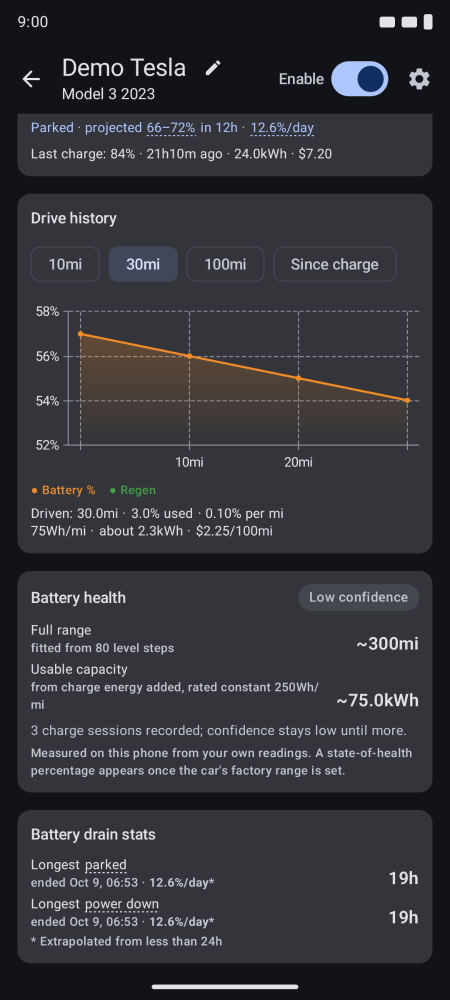
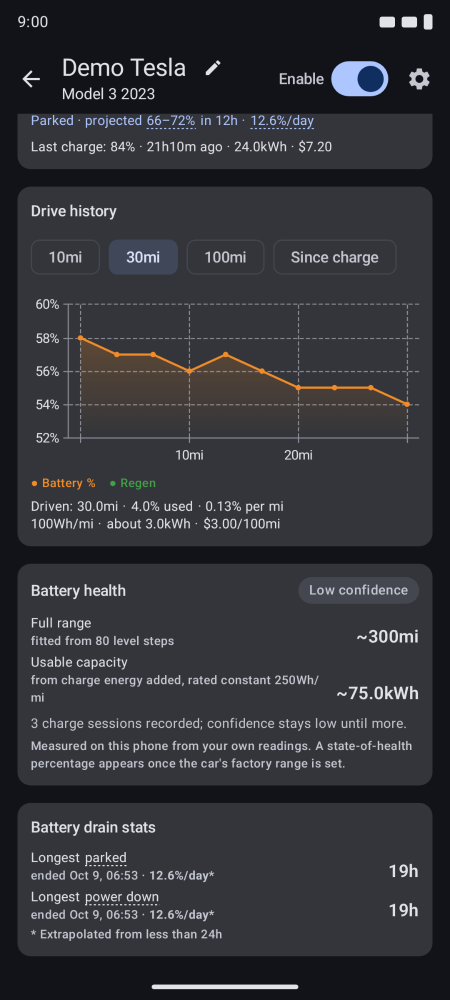
test: give the demo drives a wavy level and scroll the drive screenshot further
Claude-Session: https://claude.ai/code/session_01PLLPdEGMtwQUrgVjwf5FFz

diff --git a/app/src/test/java/com/dzid26/teslable/ui/DemoScreenFixtures.kt b/app/src/test/java/com/dzid26/teslable/ui/DemoScreenFixtures.kt
@@ -46,7 +46,7 @@ internal object DemoScreenFixtures {
     private const val RATED_MILES_PER_PERCENT = 3.0f
     private const val KWH_PER_PERCENT = 0.75f
     private const val ODOMETER = 1_234_567
-    private const val DRIVE_STEP = 1_000
+    private const val DRIVE_STEP = 333
     private const val DEMO_RSSI_LIST = -48
     private const val DEMO_RSSI_CAR = -47
     private const val OTHER_RSSI = -78
@@ -184,7 +184,9 @@ internal object DemoScreenFixtures {
         var ago = fromAgo
         while (ago >= toAgo) {
             val fraction = (fromAgo - ago).toDouble() / span
-            val percent = (fromPercent + (toPercent - fromPercent) * fraction).roundToInt()
+            // A drive wobbles: every fourth reading gains a level back, as regen on a downhill does.
+            val regen = if (driving && points.size % REGEN_EVERY == REGEN_EVERY - 1 && ago > toAgo) 1 else 0
+            val percent = (fromPercent + (toPercent - fromPercent) * fraction).roundToInt() + regen
             points += Point(ago, percent, state, charge, driving)
             ago -= stepMin
         }
@@ -197,13 +199,13 @@ internal object DemoScreenFixtures {
             val parked = ChargingStateKind.Disconnected
             val charge = ChargingStateKind.Charging
             addAll(segment(2880L to 2700L, 64 to 63, 60, parked))
-            addAll(segment(2700L to 2580L, 63 to 55, 15, parked, driving = true))
+            addAll(segment(2700L to 2580L, 63 to 55, 5, parked, driving = true))
             addAll(segment(2580L to 2460L, 55 to 54, 60, parked))
             addAll(segment(2460L to 2400L, 54 to 60, 10, charge))
-            addAll(segment(2400L to 2280L, 60 to 52, 15, parked, driving = true))
+            addAll(segment(2400L to 2280L, 60 to 52, 5, parked, driving = true))
             addAll(segment(2280L to 2160L, 52 to 51, 60, parked))
             addAll(segment(2160L to 2040L, 51 to 63, 10, charge))
-            addAll(segment(2040L to 1920L, 63 to 54, 15, parked, driving = true))
+            addAll(segment(2040L to 1920L, 63 to 54, 5, parked, driving = true))
             addAll(segment(1920L to 1560L, 54 to 52, 60, parked))
             addAll(segment(1560L to 1260L, 52 to 85, 10, charge))
             add(Point(1260, 85, ChargingStateKind.Complete))
@@ -246,4 +248,5 @@ internal object DemoScreenFixtures {
     }
 
     private const val DRIVE_SPEED = 40
+    private const val REGEN_EVERY = 4
 }

diff --git a/app/src/test/java/com/dzid26/teslable/ui/DrivingScreenSnapshots.kt b/app/src/test/java/com/dzid26/teslable/ui/DrivingScreenSnapshots.kt
@@ -111,7 +111,7 @@ class DrivingScreenSnapshots {
         const val HOME_PRICE = 0.30f
 
         /** Scrolls the car view down to the drive card. */
-        const val DRIVE_CARD_SCROLL_PX = 1400
+        const val DRIVE_CARD_SCROLL_PX = 1570
 
         /** The live trip began fourteen minutes before the render. */
         const val TRIP_ELAPSED_MILLIS = 14 * 60_000L
